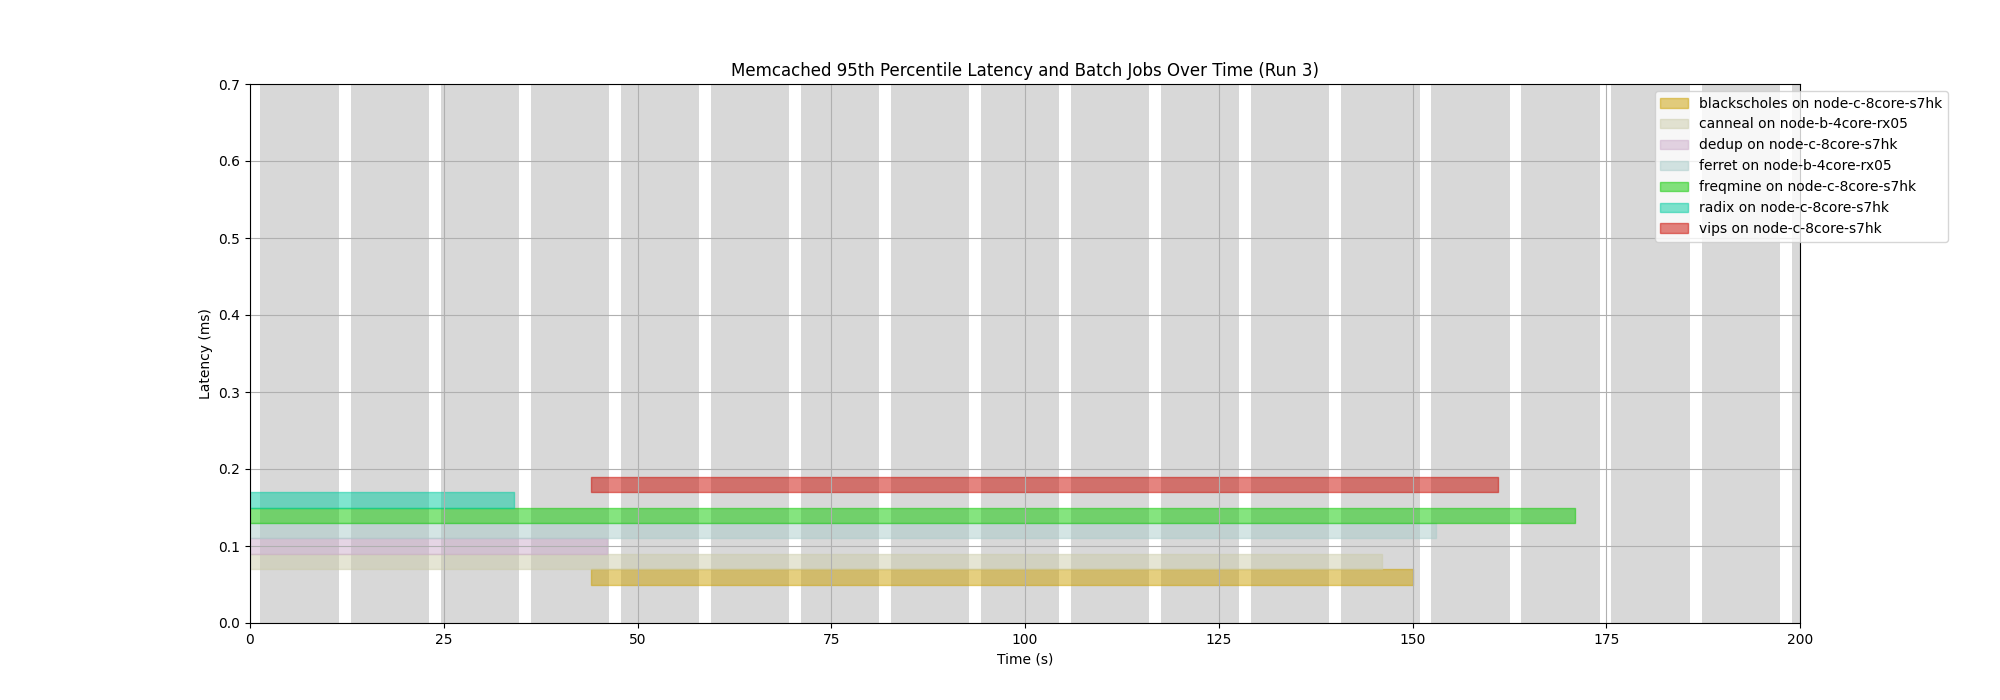
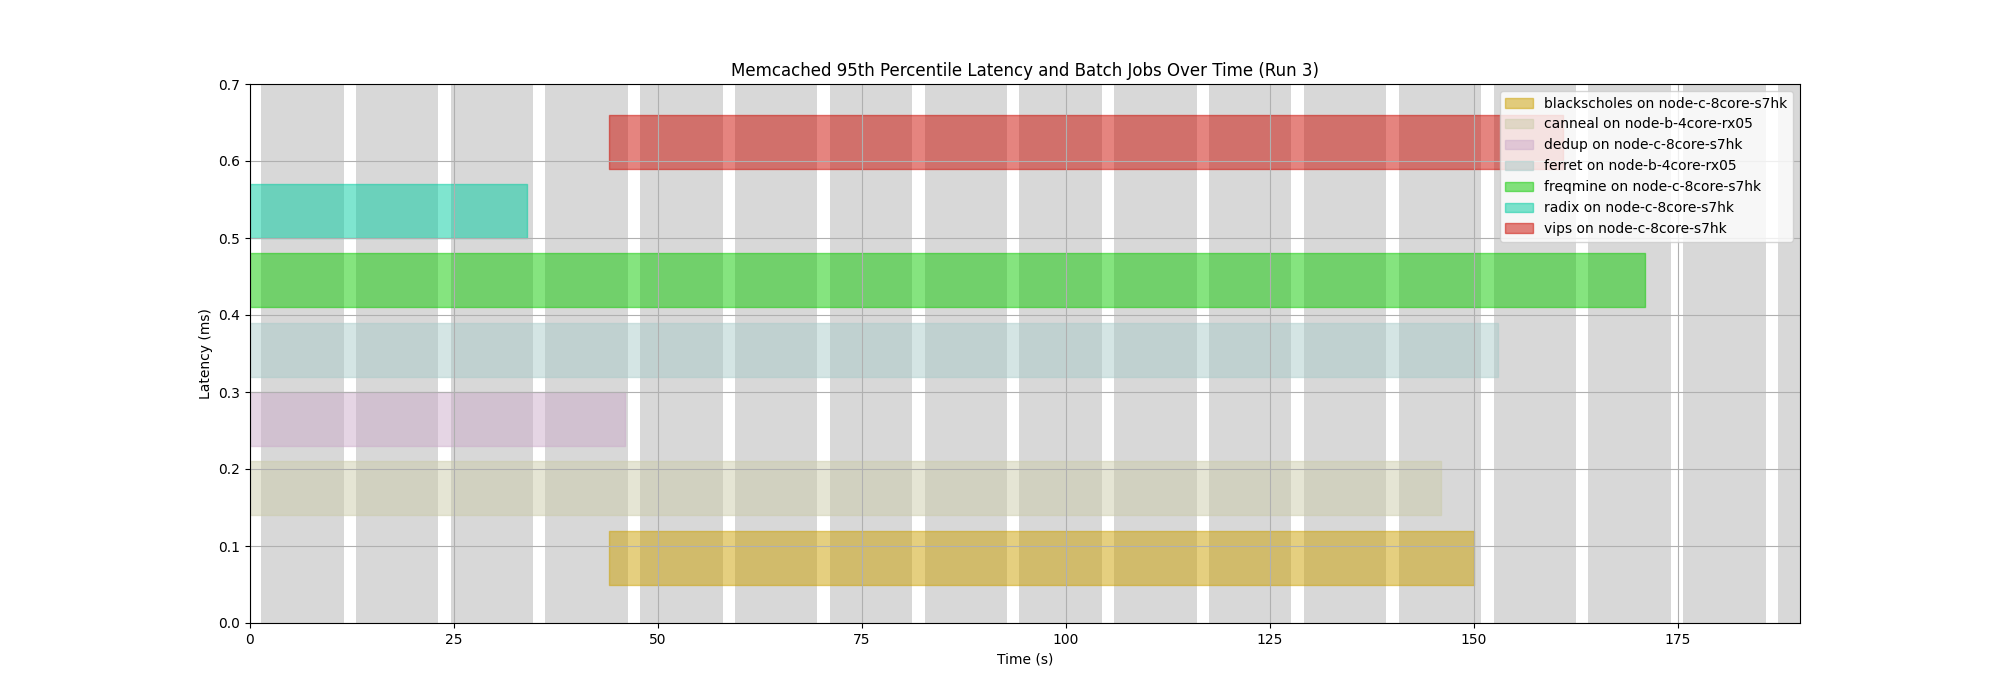
changed visualization of the plots of part3

Changed region(s): [[0.124, 0.12, 0.961, 0.93]]

diff --git a/python_scripts/plot_part3_q1.py b/python_scripts/plot_part3_q1.py
@@ -70,7 +70,7 @@ def plot_latency(mcperf_data, pods_data, run_number):
                 alpha=0.3)
 
     # Plotting the batch jobs
-    job_height = 0.02  # Height of the batch job bands
+    job_height = 0.07  # Height of the batch job bands
     y_offset = 0.05  # Start height of the first batch job
     for index, row in pods_data.iterrows():
         job_name = row['name']
@@ -80,7 +80,7 @@ def plot_latency(mcperf_data, pods_data, run_number):
                           color=color, alpha=0.5, label=f"{job_name} on {row['node']}")
 
         # Update the offset for the next job
-        y_offset += job_height
+        y_offset += job_height + 0.02
 
     # Customize the plot
     plt.title(f'Memcached 95th Percentile Latency and Batch Jobs Over Time (Run {run_number})')
@@ -88,11 +88,11 @@ def plot_latency(mcperf_data, pods_data, run_number):
     plt.ylabel('Latency (ms)')
     plt.ylim(0, 0.7)  # Adjust based on your data range
     # plt.xlim(mcperf_data['ts_start_rel'].min(), mcperf_data['ts_end_rel'].max())
-    plt.xlim(0,200)
-    # Create a custom legend
+    plt.xlim(0, 190)
+
     handles, labels = plt.gca().get_legend_handles_labels()
     by_label = dict(zip(labels, handles))
-    plt.legend(by_label.values(), by_label.keys(), loc='upper right', bbox_to_anchor=(1.1, 1))
+    plt.legend(by_label.values(), by_label.keys(), loc='upper right')
     plt.grid(True)
     plt.savefig(f'../plots/plot_part3_run_{run_number}.png')
     plt.show()
@@ -114,4 +114,4 @@ for i in range(1, 4):
 
 # Calculate and print the final average and standard deviation across all runs
 final_stats = final_statistics(all_runs_stats)
-print("Final Statistics across All Runs:", final_stats)
+print("Final statistics across all runs:", final_stats)
